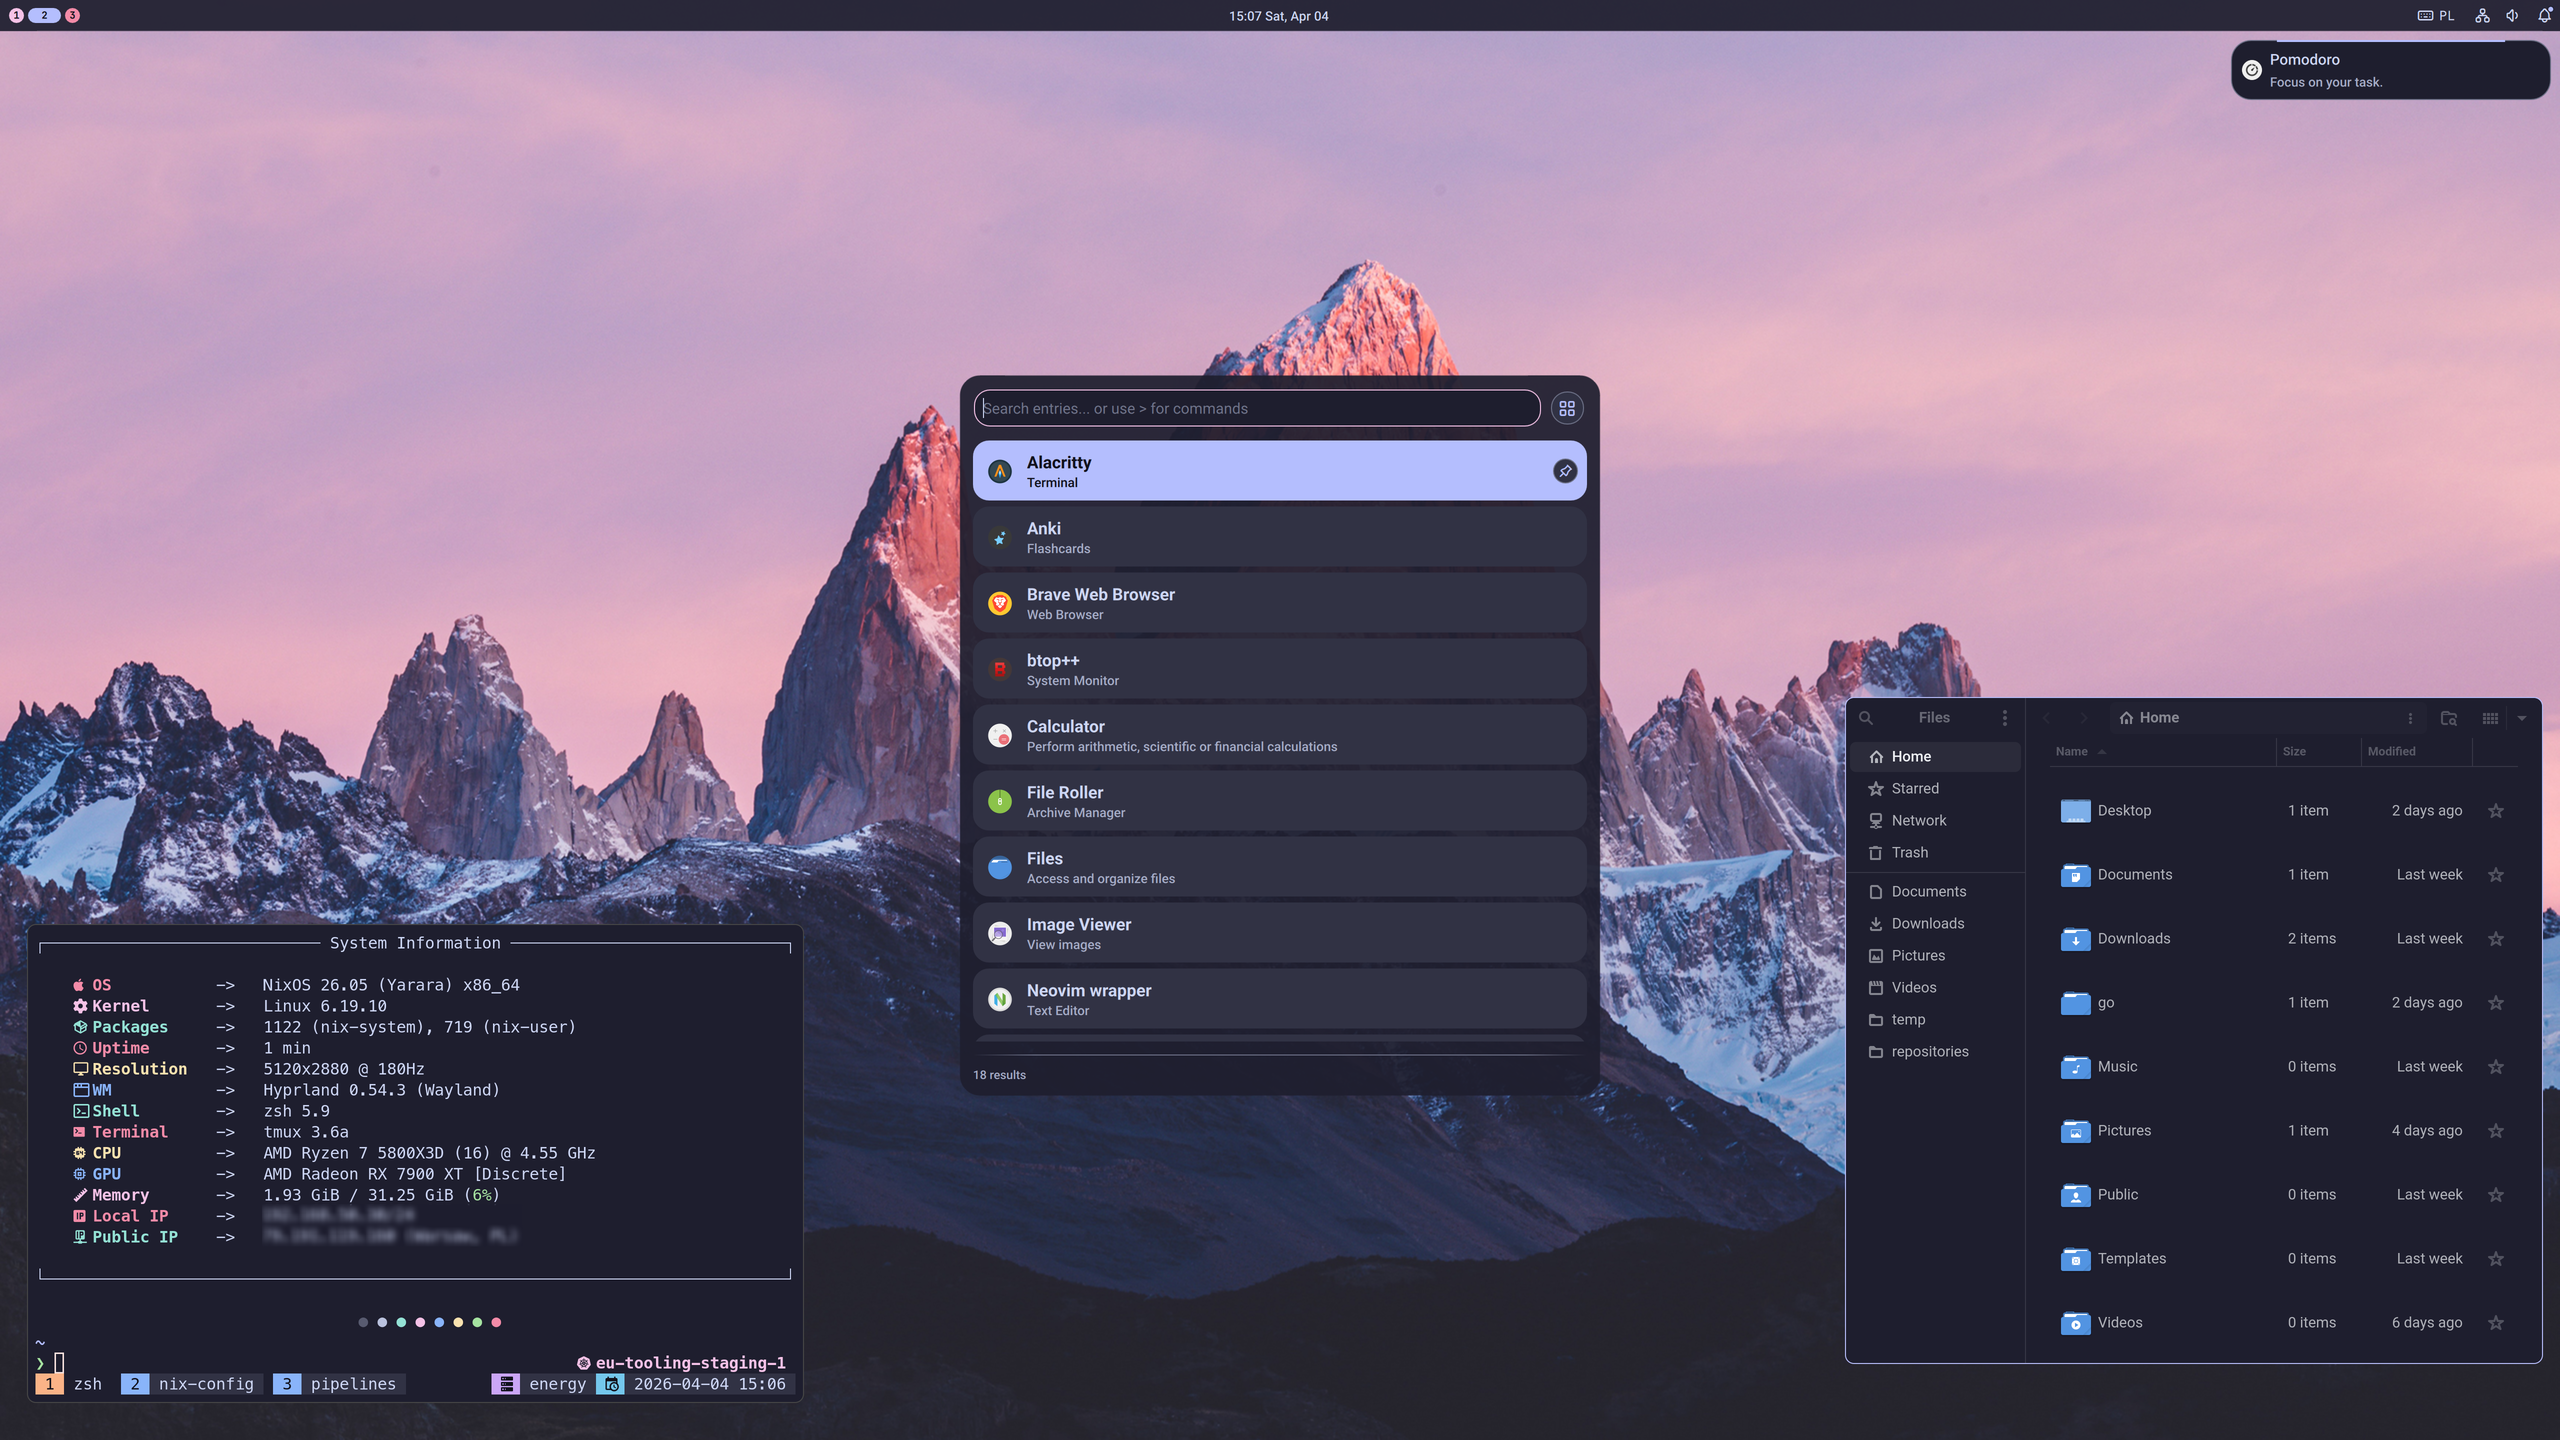
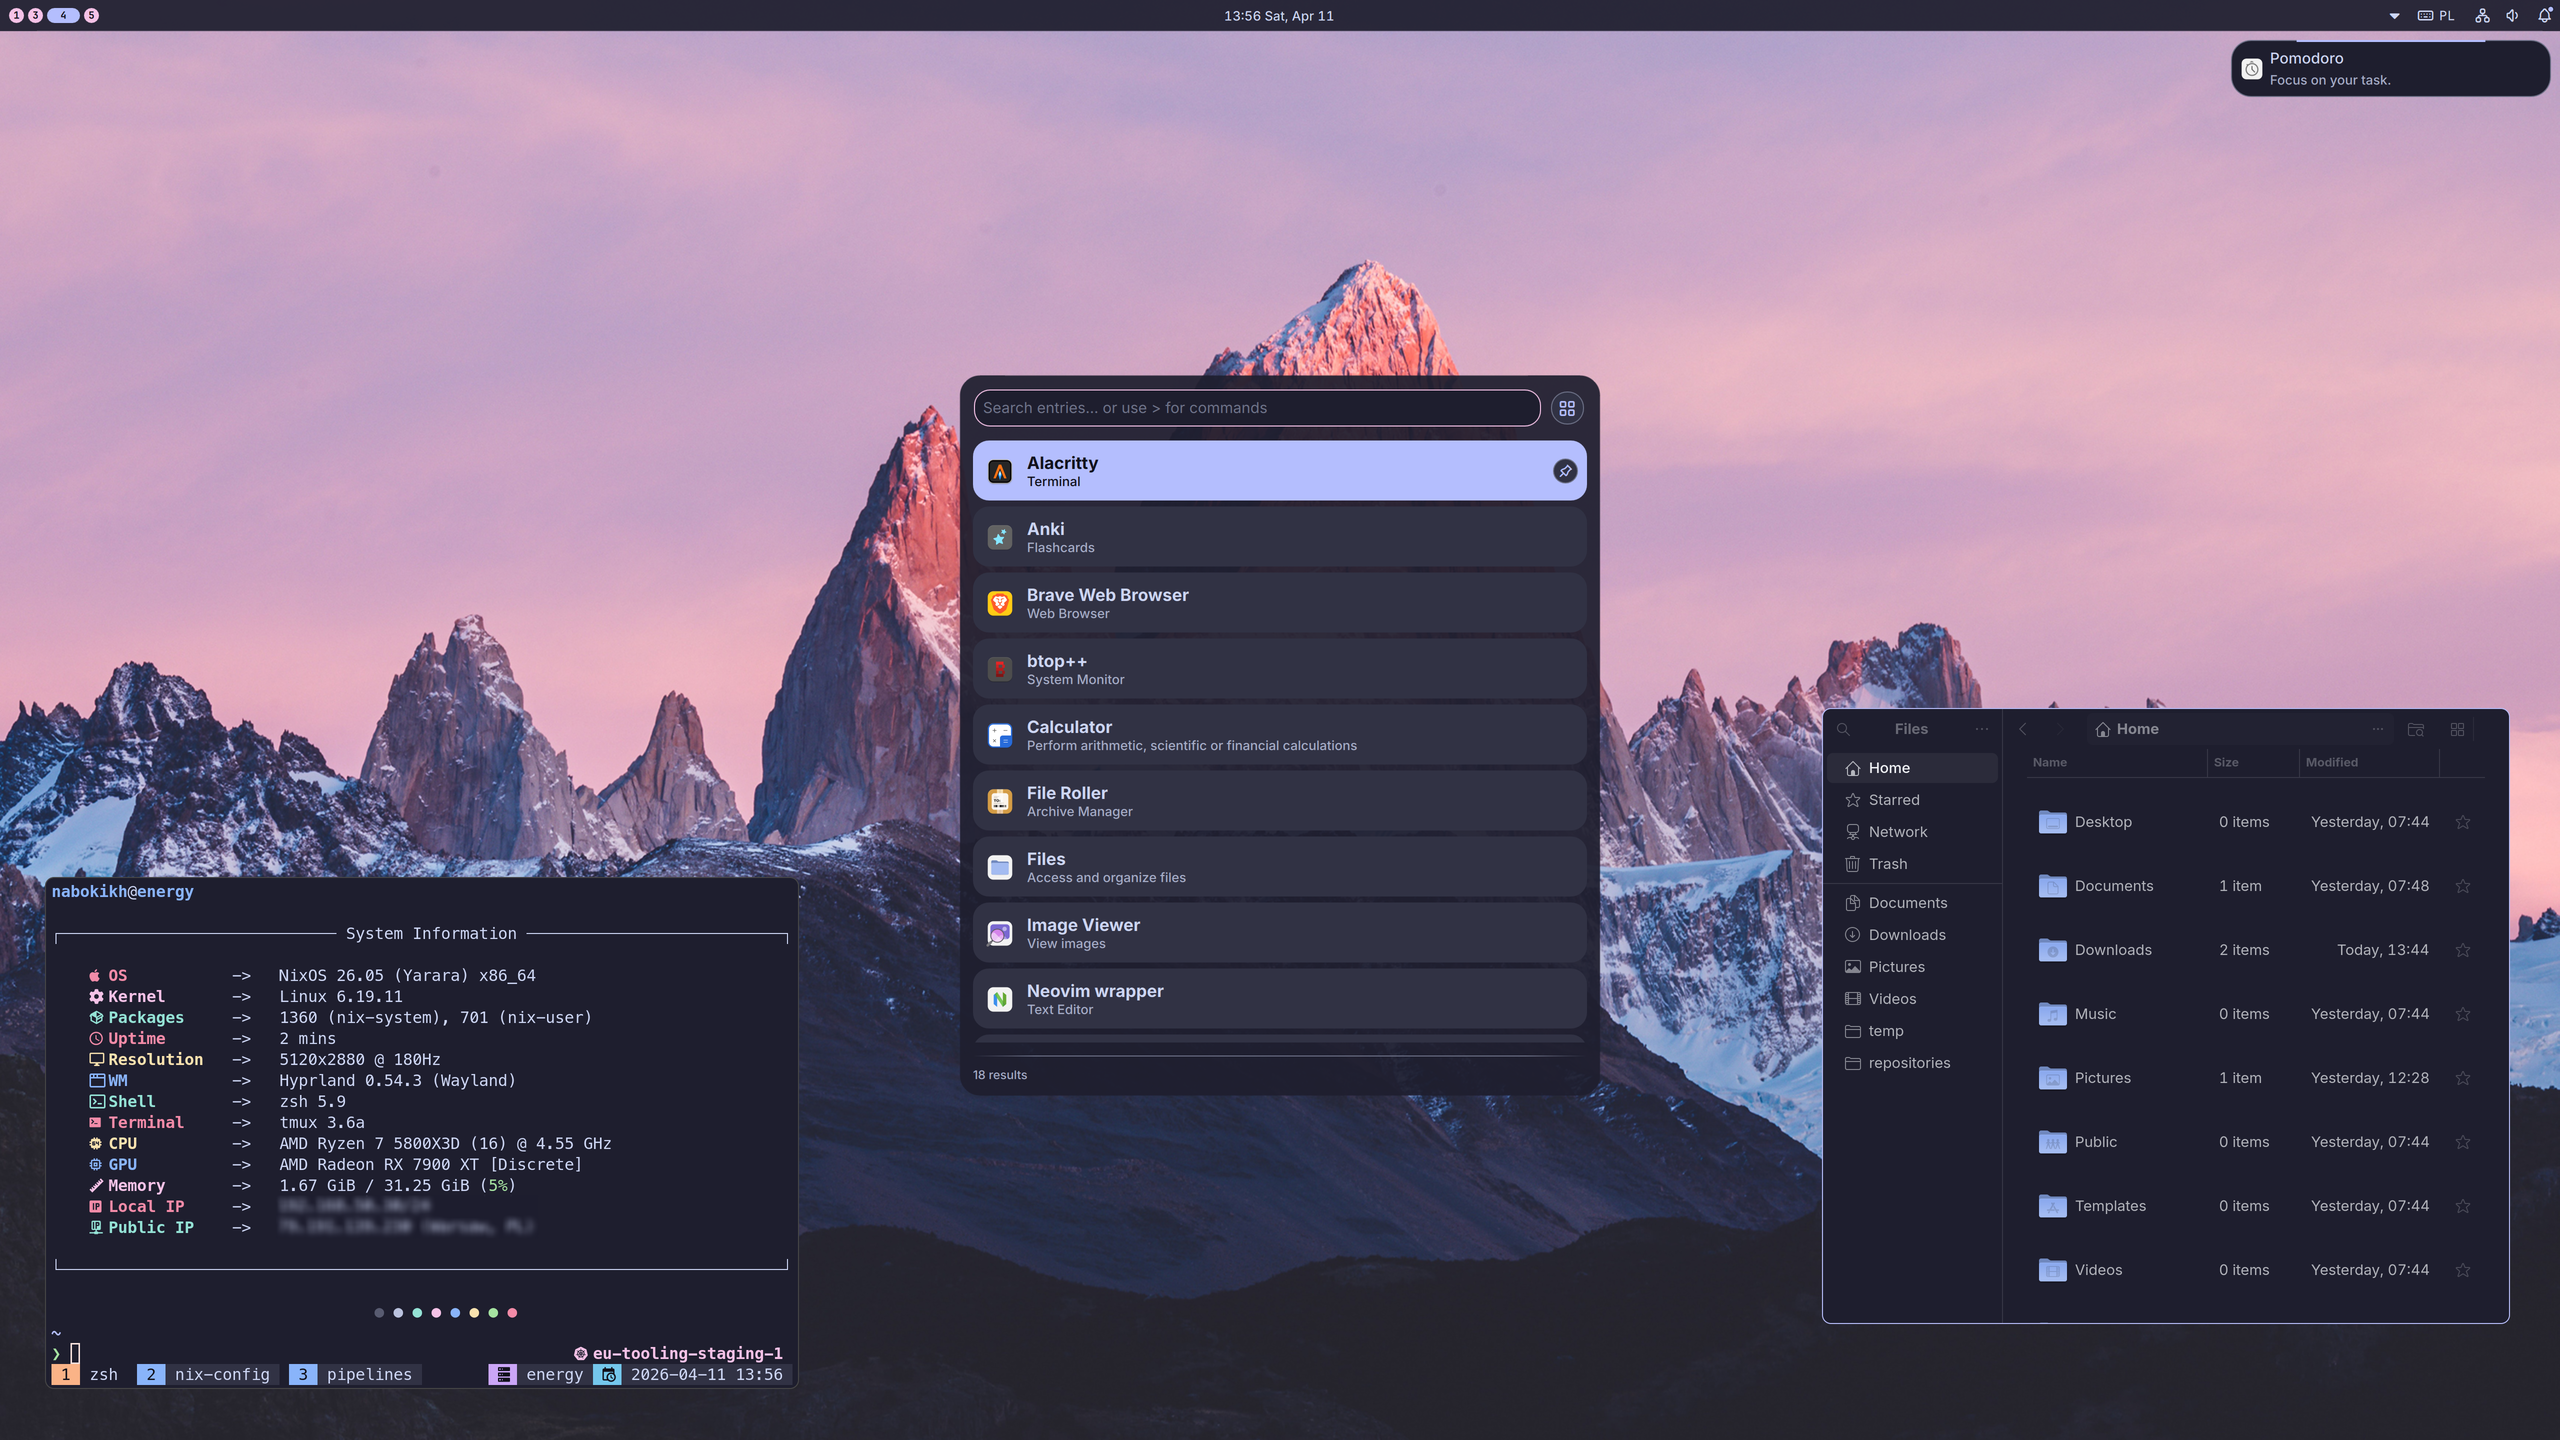
chore(docs): updated readme

diff --git a/README.md b/README.md
@@ -117,6 +117,10 @@ Files and directories starting with `_` are ignored by `import-tree`. This conve
 - `_hardware.nix` — NixOS hardware configuration (imported by the host's `default.nix`)
 - `_colors.nix`, `_plugins.nix` — helper data files (imported by their parent module)
 
+### Composition example based on Energy host
+
+![energy](./assets/composition.png)
+
 ## How To Read This Repo
 
 If you are reading this repo for the first time, use this order: